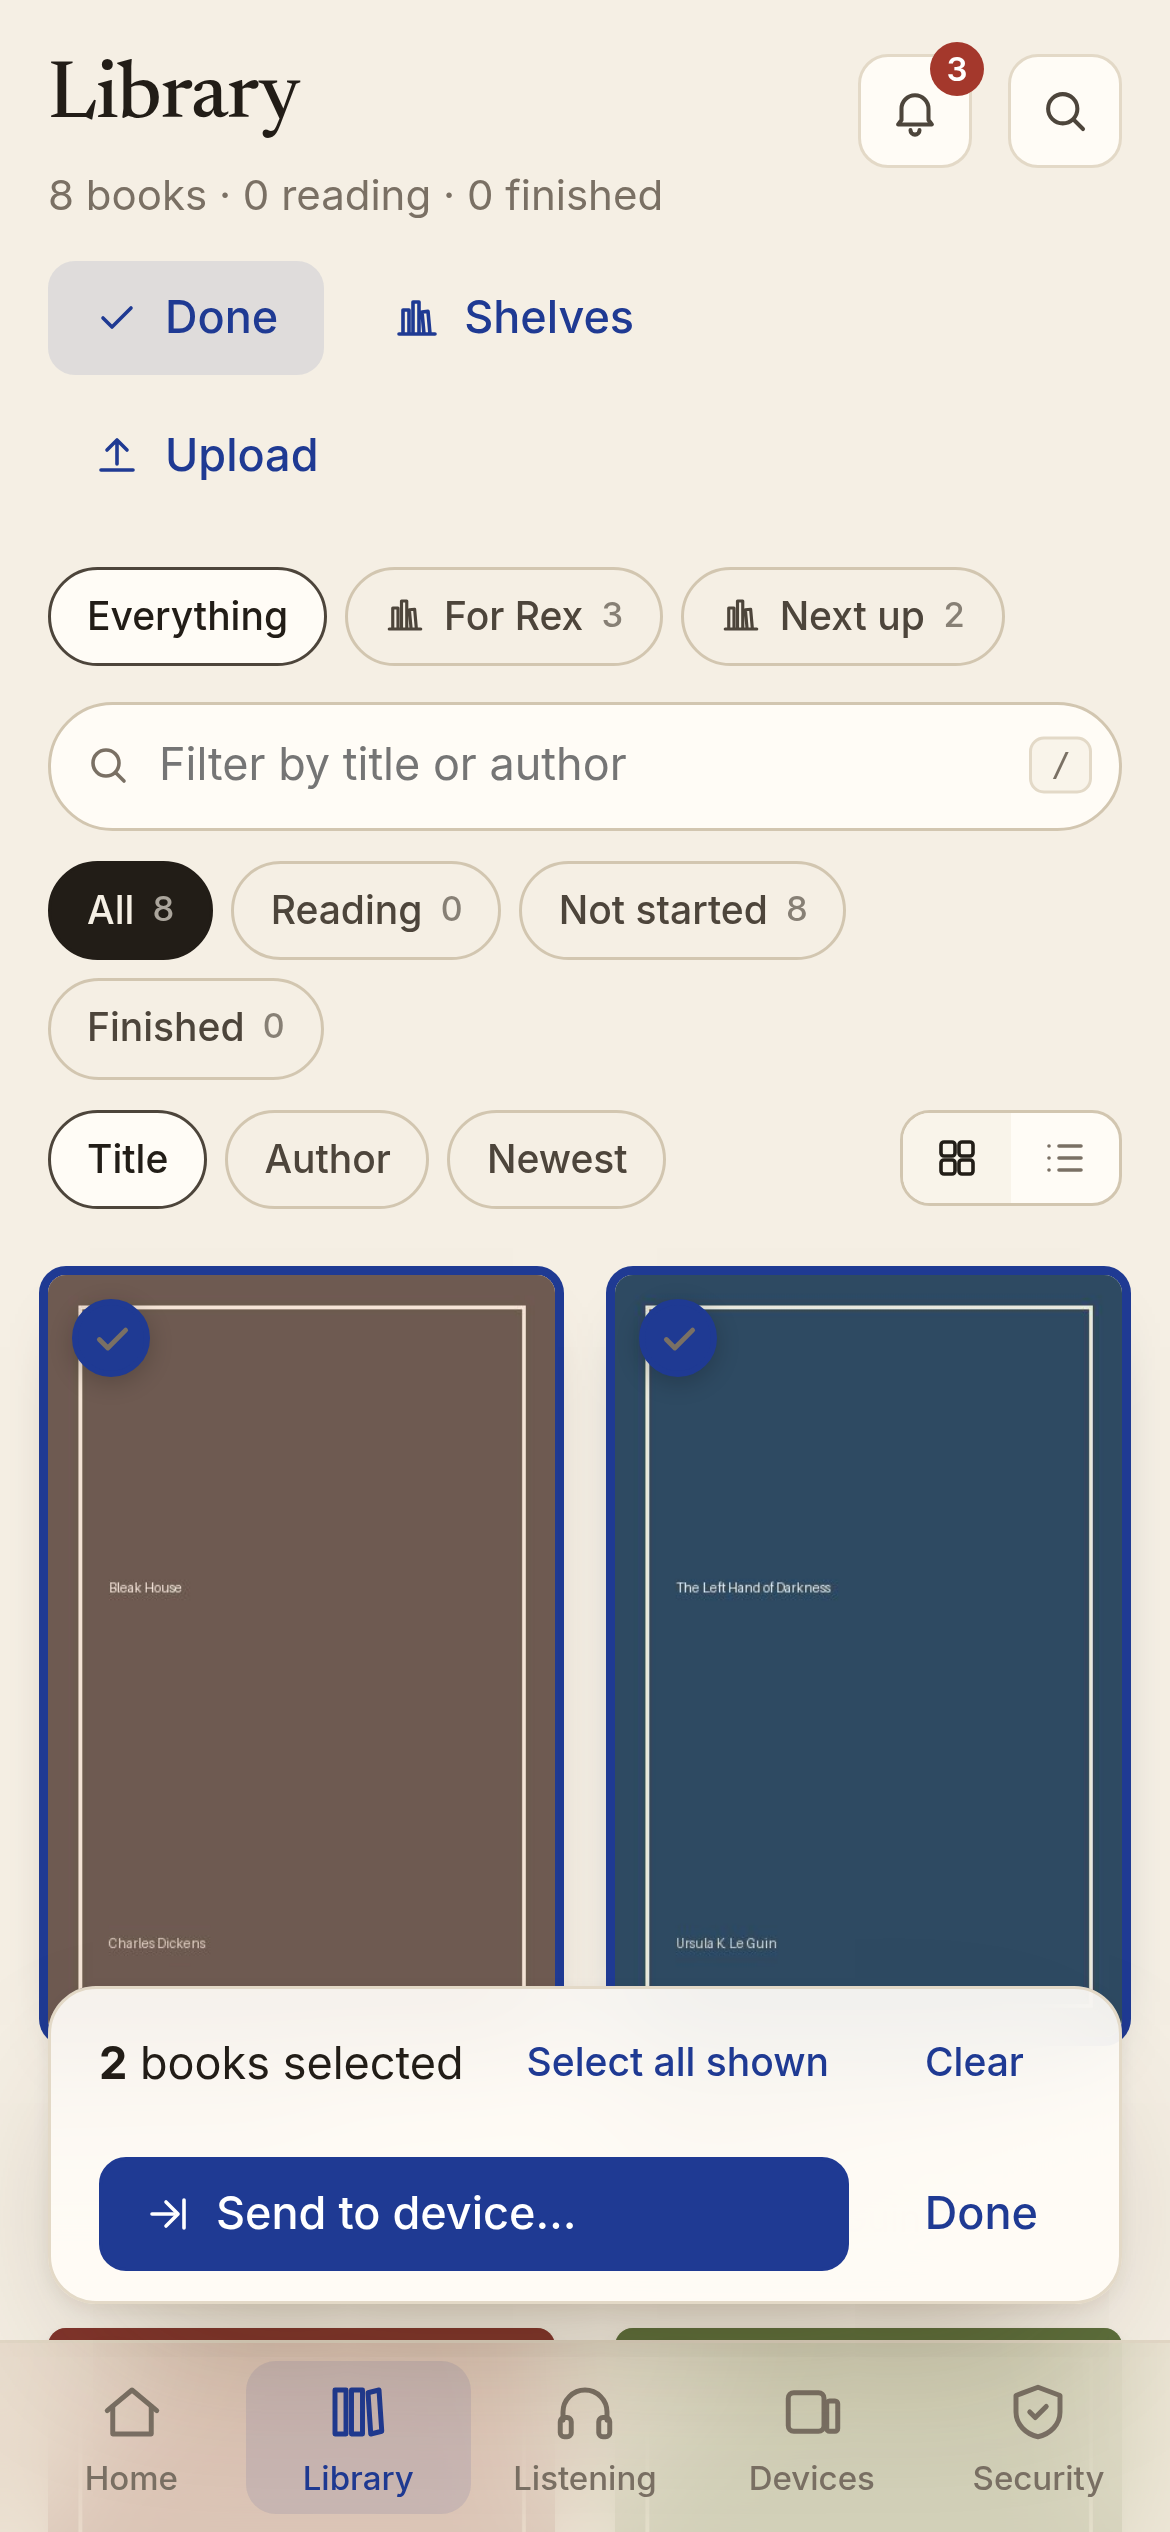
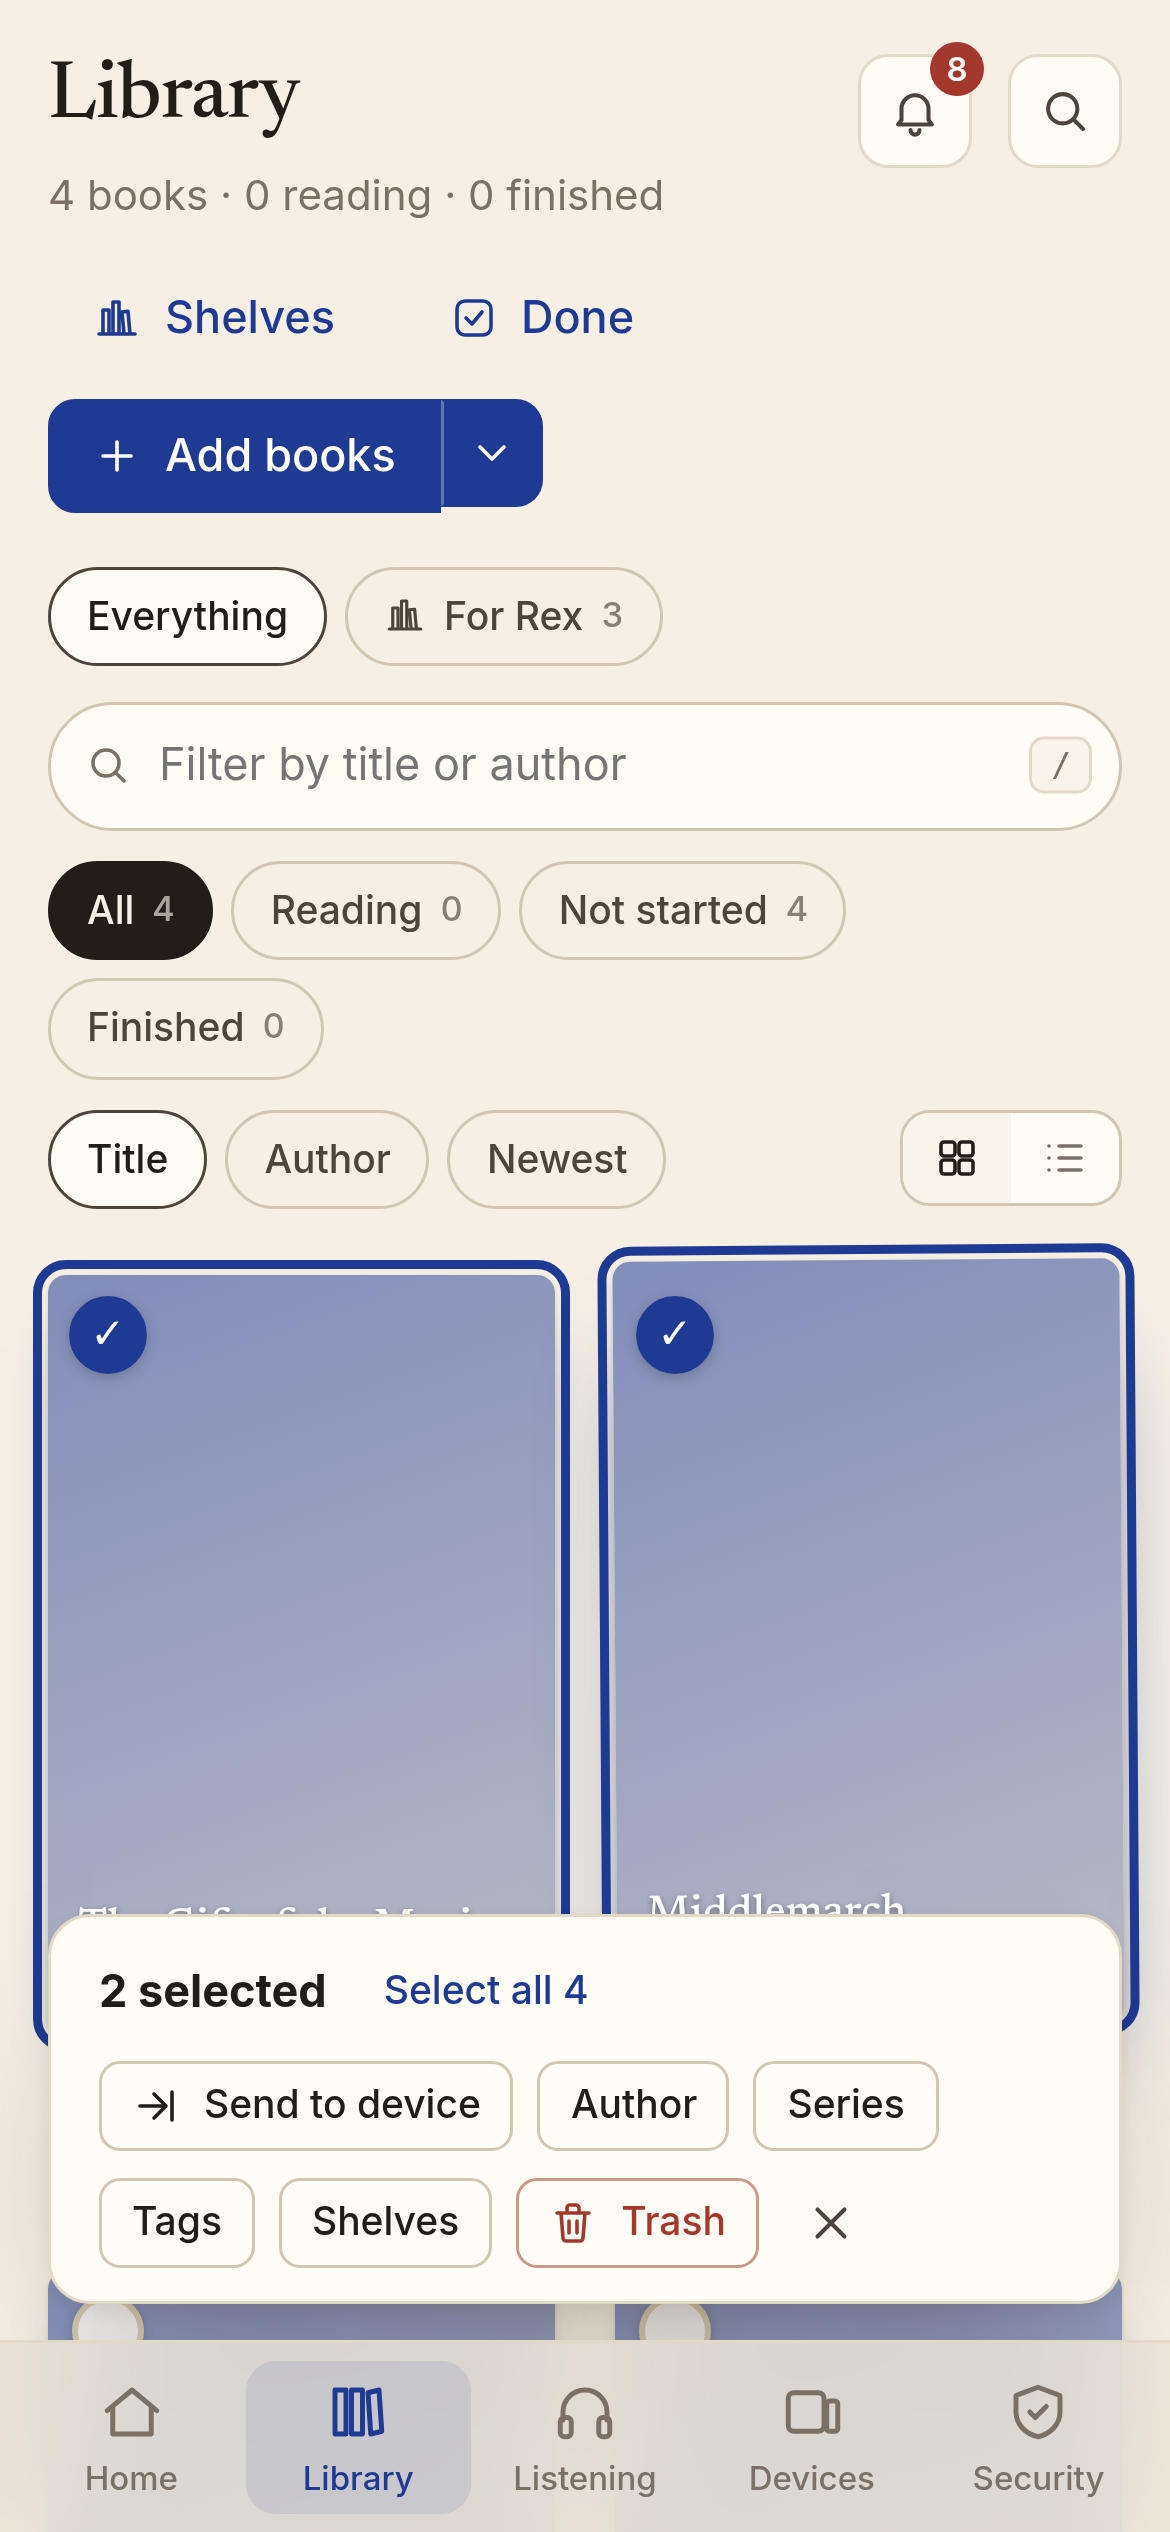
Docs: refresh Library selection screenshots for the merged bulk bar
Send to device now lives in add & edit books' selection bar; readers see only Send.

Amp-Thread-ID: https://ampcode.com/threads/T-01a15b80-ab6f-77a3-8ac4-0e24da7dde07

diff --git a/docs/device-queues.md b/docs/device-queues.md
@@ -12,9 +12,10 @@ pull, so the queue is just a personal shelf for one catalogue password.
 - **One book:** open it in the Library and choose **Send to device**. The dialog lists the
   devices you can send to, which ones already have the book waiting, and remembers your last
   choice.
-- **Several books:** in the Library choose **Select**, tap the books (books without an EPUB
-  cannot be selected), then **Send to device…**. The toast says what happened to each book:
-  sent, already waiting, not shared with that person, or without an EPUB.
+- **Several books:** in the Library choose **Select**, tap the books, then **Send to device**
+  in the selection bar (the same bar as bulk edit; readers see only **Send to device**). The
+  toast says what happened to each book: sent, already waiting, not shared with that person,
+  or without an EPUB.
 - **The queue:** on **Devices**, each device with a catalogue password shows how many books
   are waiting; **Open queue** lists them in catalogue order. Move them up or down, remove one,
   or queue a delivered or removed book again from **Recently**.
@@ -31,6 +32,7 @@ pull, so the queue is just a personal shelf for one catalogue password.
 | --- | --- |
 | ![Queue sheet](screenshots/m5-queues-sheet.png) | ![Queue sheet on a phone](screenshots/m5-queues-sheet-mobile-dark.png) |
 | ![Send dialog](screenshots/m5-queues-send-dialog.png) | ![Selecting books on a phone](screenshots/m5-queues-library-select-mobile.png) |
+| ![Selecting books: Send to device in the bulk bar](screenshots/m5-queues-library-select.png) | |
 
 ## Who can send what to whom
 
